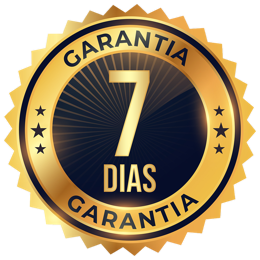
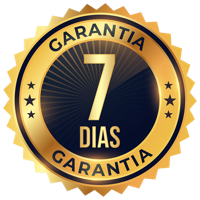
Give the sales page visual rhythm and fix the hero for mobile
The page was white cards on an almost-white background with no colour
anywhere, so nothing held the eye. Now the sections alternate: a deep
green hero, a white stats band, light content sections, an amber
guarantee section that frames the gold seal, and a dark green pricing
section where the white cards pop. All of it is CSS, no added weight.

Hero changes that matter on phones:
- The CTA was a green button on a green background and sat below the
  fold. It is now gold (which also ties to the seal) and sits above
  the fold at 390x844, with the product shot moved below it.
- The hero image was the whole spreadsheet shrunk to ~350px, which
  read as grey mush. Replaced with a tight crop of the month totals
  and the "restante para gastar" dial, taken from the tutorial video,
  so the numbers are actually legible at phone size.

Also adds section eyebrow labels and a three-number band (12 meses,
3 min, 7 dias), all facts already verified.

Fixes found while testing:
- Price card text inherited the dark section's white colour, so
  "Essencial" and "R$17" rendered invisible on the white card.
- The sales page did not fill the viewport above 1024px, because the
  quiz's body flex rule applies site-wide; the colour bands stopped
  short of the edges.
- The seasonal card's amber heading sat at ~3:1 on its amber
  background; darkened it.

Weight: first load is 80KB (html+css+js+hero crop). Seal cut from 99
to 64KB and the video poster from 100 to 84KB, both below the fold.
[…]

diff --git a/style.css b/style.css
@@ -232,6 +232,20 @@ ul { margin: 0; padding: 0; list-style: none; }
   line-height: 1.3;
 }
 
+/* CTA dourado: usado sobre fundo verde escuro, onde o botão verde some */
+.btn-gold {
+  background: linear-gradient(135deg, #fcd34d, #e39b12);
+  color: #0a3f2d;
+  box-shadow: 0 10px 24px rgba(0, 0, 0, 0.25);
+}
+.btn-gold:hover:not(:disabled) { box-shadow: 0 14px 30px rgba(0, 0, 0, 0.32); }
+
+.btn-pulse-gold { animation: pulseGold 2.4s ease-in-out infinite; }
+@keyframes pulseGold {
+  0%, 100% { box-shadow: 0 10px 24px rgba(0, 0, 0, 0.25), 0 0 0 0 rgba(252, 211, 77, 0.5); }
+  50% { box-shadow: 0 10px 24px rgba(0, 0, 0, 0.25), 0 0 0 12px rgba(252, 211, 77, 0); }
+}
+
 .btn-pulse {
   animation: pulseSoft 2.4s ease-in-out infinite;
 }
@@ -478,7 +492,7 @@ ul { margin: 0; padding: 0; list-style: none; }
   font-family: var(--font-heading);
   font-size: 14.5px;
   font-weight: 700;
-  color: var(--color-accent-dark);
+  color: #9a4f04;   /* mais escuro que o âmbar padrão: o fundo do card já é âmbar claro */
 }
 .season-card p { font-size: 14.5px; color: var(--text-secondary); }
 
@@ -586,7 +600,9 @@ ul { margin: 0; padding: 0; list-style: none; }
 /* =========================================================
    PÁGINA DE VENDAS DIRETA (vendas.html)
    ========================================================= */
-.sales { display: block; }
+/* width explícito: acima de 1024px o body vira flex por causa do quiz,
+   e sem isso as faixas coloridas não ocupariam a largura toda */
+.sales { display: block; width: 100%; }
 
 .sales-inner {
   width: 100%;
@@ -595,48 +611,137 @@ ul { margin: 0; padding: 0; list-style: none; }
   padding: 0 20px;
 }
 
-.sales-section { padding: 38px 0; }
-.sales-section--alt { background: rgba(255, 255, 255, 0.55); }
-
-.sales-hero {
-  padding: 32px 0 42px;
-  text-align: center;
+.sales-section { padding: 42px 0; }
+.sales-section--alt { background: var(--surface); }
+.sales-section--amber {
+  background: linear-gradient(180deg, #fff8ec, #fef3e2);
 }
+.sales-section--dark {
+  background: linear-gradient(165deg, #06513a, var(--color-primary-dark) 55%, #0a7854);
+  color: #fff;
+  position: relative;
+  overflow: hidden;
+}
+/* brilho sutil atrás das ofertas, sem custo de imagem */
+.sales-section--dark::before {
+  content: "";
+  position: absolute;
+  top: -120px;
+  left: 50%;
+  transform: translateX(-50%);
+  width: 520px;
+  height: 320px;
+  background: radial-gradient(ellipse at center, rgba(52, 211, 153, 0.35), transparent 70%);
+  pointer-events: none;
+}
+.sales-section--dark > * { position: relative; }
+.sales-section--dark .sales-h2 { color: #fff; }
+.sales-section--dark .sales-text { color: rgba(255, 255, 255, 0.85); }
+
+/* HERO em verde profundo: dá o contraste que a página não tinha */
+.sales-hero {
+  position: relative;
+  overflow: hidden;
+  padding: 36px 0 48px;
+  text-align: center;
+  color: #fff;
+  background: linear-gradient(170deg, #06513a, var(--color-primary-dark) 45%, #0b8159);
+}
+.sales-hero::before {
+  content: "";
+  position: absolute;
+  top: -160px;
+  right: -80px;
+  width: 460px;
+  height: 460px;
+  border-radius: 50%;
+  background: radial-gradient(circle, rgba(52, 211, 153, 0.3), transparent 65%);
+  pointer-events: none;
+}
+.sales-hero > * { position: relative; }
 .sales-eyebrow {
   display: inline-block;
   padding: 6px 14px;
   margin-bottom: 14px;
   border-radius: var(--radius-pill);
-  background: var(--color-primary-bg);
-  color: var(--color-primary-dark);
+  background: rgba(255, 255, 255, 0.15);
+  color: #fff;
   font-size: 12.5px;
   font-weight: 700;
   text-transform: uppercase;
   letter-spacing: 0.03em;
 }
-.sales-h1 {
-  font-size: clamp(26px, 6.4vw, 38px);
+
+/* Olho das seções */
+.section-tag {
+  display: block;
+  margin-bottom: 8px;
+  text-align: center;
+  font-family: var(--font-heading);
+  font-size: 12.5px;
   font-weight: 700;
-  letter-spacing: -0.01em;
+  text-transform: uppercase;
+  letter-spacing: 0.1em;
+  color: var(--color-primary);
+}
+.section-tag--light { color: var(--color-accent); }
+
+/* Faixa de números */
+.stats-band {
+  background: var(--surface);
+  border-bottom: 1px solid var(--border);
+  padding: 20px 0;
+}
+.stat-row {
+  display: grid;
+  grid-template-columns: repeat(3, 1fr);
+  gap: 10px;
+  text-align: center;
+}
+.stat-row li { display: flex; flex-direction: column; gap: 2px; }
+.stat-row strong {
+  font-family: var(--font-heading);
+  font-size: clamp(22px, 6vw, 28px);
+  font-weight: 800;
+  color: var(--color-primary);
+  line-height: 1;
+}
+.stat-row span { font-size: 12px; color: var(--text-muted); }
+.sales-h1 {
+  font-size: clamp(28px, 7.4vw, 42px);
+  font-weight: 800;
+  letter-spacing: -0.02em;
+  line-height: 1.15;
   margin-bottom: 14px;
 }
 .sales-h1 .hl {
-  color: var(--color-primary);
-  background: linear-gradient(180deg, transparent 62%, var(--color-primary-bg) 62%);
+  color: #ffd98a;
+  background: none;
 }
 .sales-lead {
   font-size: 16.5px;
-  color: var(--text-secondary);
+  color: rgba(255, 255, 255, 0.85);
   max-width: 46ch;
-  margin: 0 auto 22px;
+  margin: 0 auto 24px;
 }
-.sales-hero-media { margin-bottom: 24px; }
+/* a captura entra como cartão flutuante: é o contraste que faz o painel aparecer */
+.sales-hero-media {
+  margin: 26px auto 0;
+  max-width: 270px;
+  padding: 10px;
+  border-radius: var(--radius-lg);
+  background: rgba(255, 255, 255, 0.12);
+  border: 1px solid rgba(255, 255, 255, 0.22);
+  backdrop-filter: blur(2px);
+}
 .sales-hero-media img {
   width: 100%;
   height: auto;
+  display: block;
   border-radius: var(--radius-md);
-  box-shadow: var(--shadow-md);
+  box-shadow: 0 18px 40px rgba(0, 0, 0, 0.3);
 }
+.sales-hero .sales-note { color: rgba(255, 255, 255, 0.9); margin-top: 12px; }
 .sales-cta { max-width: 460px; margin: 0 auto; }
 .sales-note {
   margin-top: 10px;
@@ -748,12 +853,13 @@ ul { margin: 0; padding: 0; list-style: none; }
   background: var(--surface);
   border: 1px solid var(--border);
   box-shadow: var(--shadow-sm);
+  /* explícito: o cartão fica dentro de uma seção de texto branco */
+  color: var(--text-primary);
 }
+/* Sobre o fundo escuro, o destaque é dourado: conversa com o selo de garantia */
 .price-card--featured {
-  background: linear-gradient(160deg, var(--color-primary-dark), var(--color-primary));
-  border: none;
-  color: #fff;
-  box-shadow: var(--shadow-lg);
+  border: 2px solid var(--color-accent);
+  box-shadow: 0 18px 46px rgba(0, 0, 0, 0.3), 0 0 0 6px rgba(245, 158, 11, 0.14);
   padding-top: 32px;
 }
 .price-badge {
@@ -779,7 +885,7 @@ ul { margin: 0; padding: 0; list-style: none; }
 .price-value { font-family: var(--font-heading); font-size: 36px; font-weight: 800; line-height: 1; }
 .price-meta { font-size: 13.5px; opacity: 0.8; }
 .price-desc { font-size: 14.5px; color: var(--text-secondary); }
-.price-card--featured .price-desc { color: rgba(255, 255, 255, 0.9); }
+.price-card--featured .price-name { color: var(--color-accent-dark); }
 
 .price-list { display: flex; flex-direction: column; gap: 10px; }
 .price-list li {
@@ -790,13 +896,12 @@ ul { margin: 0; padding: 0; list-style: none; }
   color: var(--text-secondary);
 }
 .price-list li svg { flex-shrink: 0; margin-top: 3px; color: var(--color-primary); }
-.price-card--featured .price-list li { color: rgba(255, 255, 255, 0.95); }
-.price-card--featured .price-list li svg { color: #fff; }
+.price-card--featured .price-value { color: var(--color-primary-dark); }
 
 .price-foot {
   font-size: 13px;
   text-align: center;
-  color: rgba(255, 255, 255, 0.85);
+  color: var(--text-muted);
 }
 
 .btn-outline {
@@ -806,7 +911,7 @@ ul { margin: 0; padding: 0; list-style: none; }
 }
 .btn-outline:hover:not(:disabled) { background: var(--color-primary-bg); }
 
-.sales-note--center { text-align: center; margin-top: 16px; }
+.sales-note--center { text-align: center; margin-top: 18px; color: rgba(255, 255, 255, 0.72); }
 
 @media (min-width: 720px) {
   .benefit-grid { grid-template-columns: 1fr 1fr; }

diff --git a/vendas.html b/vendas.html
@@ -43,23 +43,35 @@ fbq('track', 'PageView');
     <div class="sales-inner">
       <span class="sales-eyebrow">Planilha de Organização Financeira</span>
       <h1 class="sales-h1">Saiba exatamente <span class="hl">quanto entra, quanto sai e quanto sobra</span> todo mês.</h1>
-      <p class="sales-lead">Uma planilha pronta no Google Planilhas. Você faz sua cópia, preenche o mês e acompanha tudo em um painel só, sem montar fórmula nenhuma.</p>
+      <p class="sales-lead">Planilha pronta no Google Planilhas. Você faz sua cópia, preenche o mês e vê tudo em um painel só.</p>
 
-      <div class="sales-hero-media">
-        <img src="assets/video/tutorial-poster.jpg" alt="Painel da planilha mostrando totais do mês, restante para gastar e gráficos de contas e categorias" width="900" height="434" fetchpriority="high">
-      </div>
-
-      <a class="btn btn-primary btn-large btn-pulse sales-cta" href="#ofertas">
+      <a class="btn btn-gold btn-large btn-pulse-gold sales-cta" href="#ofertas">
         Ver as opções
         <svg width="18" height="18" viewBox="0 0 24 24" fill="none" aria-hidden="true"><path d="M5 12H19M19 12L13 6M19 12L13 18" stroke="currentColor" stroke-width="2.2" stroke-linecap="round" stroke-linejoin="round"/></svg>
       </a>
       <p class="sales-note">A partir de R$17, pagamento único. Garantia incondicional de 7 dias.</p>
+
+      <div class="sales-hero-media">
+        <img src="assets/painel-destaque.jpg" alt="Painel da planilha mostrando o total de entradas, o total de saídas e o quanto resta para gastar no mês" width="760" height="658" fetchpriority="high">
+      </div>
+    </div>
+  </section>
+
+  <!-- ====================== NÚMEROS DO PRODUTO ====================== -->
+  <section class="stats-band">
+    <div class="sales-inner">
+      <ul class="stat-row">
+        <li><strong>12</strong><span>meses, um por aba</span></li>
+        <li><strong>3 min</strong><span>de tutorial em vídeo</span></li>
+        <li><strong>7 dias</strong><span>de garantia</span></li>
+      </ul>
     </div>
   </section>
 
   <!-- ====================== PROBLEMA ====================== -->
   <section class="sales-section">
     <div class="sales-inner">
+      <span class="section-tag">O problema</span>
       <h2 class="sales-h2">Se você se reconhece aqui, foi pra isso que ela existe</h2>
       <ul class="pain-list">
         <li>Você não acompanha o que entra e o que sai, ou até tenta, mas se perde no meio do mês.</li>
@@ -75,6 +87,7 @@ fbq('track', 'PageView');
   <!-- ====================== DEMONSTRAÇÃO ====================== -->
   <section class="sales-section sales-section--alt">
     <div class="sales-inner">
+      <span class="section-tag">Demonstração</span>
       <h2 class="sales-h2">Veja a planilha por dentro</h2>
       <p class="sales-text sales-text--center">Este é o tutorial que acompanha a compra. São os mesmos 3 minutos que você recebe depois de pagar.</p>
       <figure class="demo-video">
@@ -88,6 +101,7 @@ fbq('track', 'PageView');
   <!-- ====================== BENEFÍCIOS ====================== -->
   <section class="sales-section">
     <div class="sales-inner">
+      <span class="section-tag">Na prática</span>
       <h2 class="sales-h2">O que você passa a enxergar</h2>
       <p class="sales-text sales-text--center">Tudo abaixo já vem montado. Você só preenche o mês.</p>
 
@@ -146,7 +160,7 @@ fbq('track', 'PageView');
   </section>
 
   <!-- ====================== GARANTIA ====================== -->
-  <section class="sales-section sales-section--alt">
+  <section class="sales-section sales-section--amber">
     <div class="sales-inner">
       <div class="guarantee-block">
         <img class="guarantee-seal" src="assets/selo-garantia.png" alt="Selo de garantia de 7 dias" width="260" height="260" loading="lazy">
@@ -172,8 +186,9 @@ fbq('track', 'PageView');
   </section>
 
   <!-- ====================== OFERTAS ====================== -->
-  <section class="sales-section" id="ofertas">
+  <section class="sales-section sales-section--dark" id="ofertas">
     <div class="sales-inner">
+      <span class="section-tag section-tag--light">Preço</span>
       <h2 class="sales-h2">Escolha como quer começar</h2>
       <p class="sales-text sales-text--center">Pagamento único nos dois. Mesma garantia de 7 dias.</p>
 
@@ -234,6 +249,7 @@ fbq('track', 'PageView');
   <!-- ====================== FAQ ====================== -->
   <section class="sales-section sales-section--alt">
     <div class="sales-inner">
+      <span class="section-tag">Dúvidas</span>
       <h2 class="sales-h2">Perguntas frequentes</h2>
       <div class="faq">
         <details class="faq-item">
